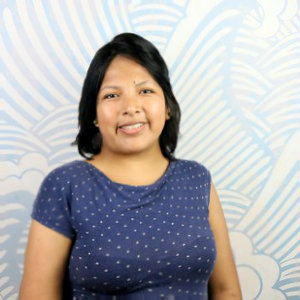
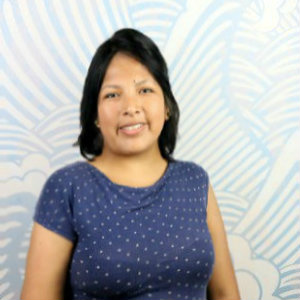
adjunta cv

diff --git a/views/portfolio.html b/views/portfolio.html
@@ -75,7 +75,7 @@
         <div class="col-md-4 col-md-push-8">
           <div class="biography">
             <div class="myphoto">
-              <img src="../assets/images/my-avatar.PNG" alt="">
+              <img src="../assets/images/myphoto.jpg" alt="photo">
             </div>
             <ul>
               <li>
@@ -104,10 +104,10 @@
 
 
           <div class="download-button">
-            <a class="btn btn-info btn-lg" href="#contact">
-              <i class="fa fa-paper-plane"></i>Send me message</a>
-            <a class="btn btn-primary btn-lg" href="#">
-              <i class="fa fa-download"></i>download my cv</a>
+            <!-- <a class="btn btn-info btn-lg" href="#contact">
+              <i class="fa fa-paper-plane"></i>Send me message</a> -->
+            <a class="btn btn-primary btn-lg" href="../assets/docs/ESTHEFANY_HV.docx">
+              <i class="fa fa-download"></i>Download my cv</a>
           </div>
         </div>
 
